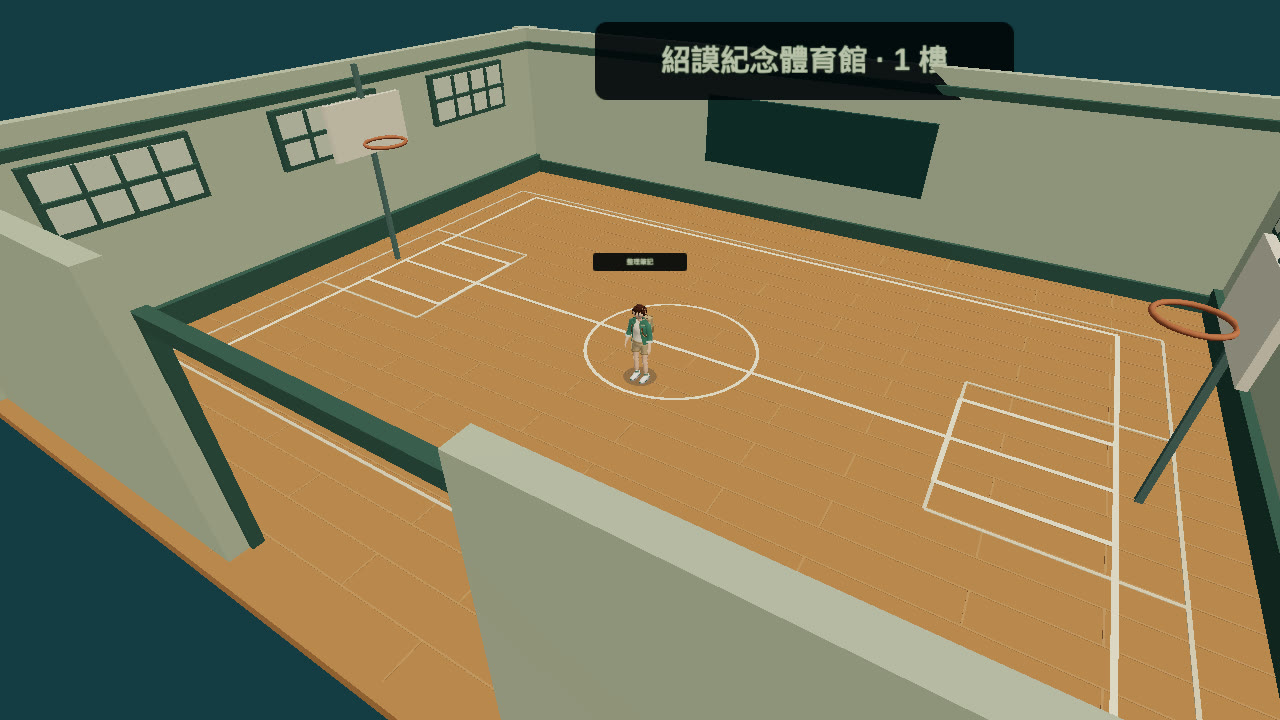
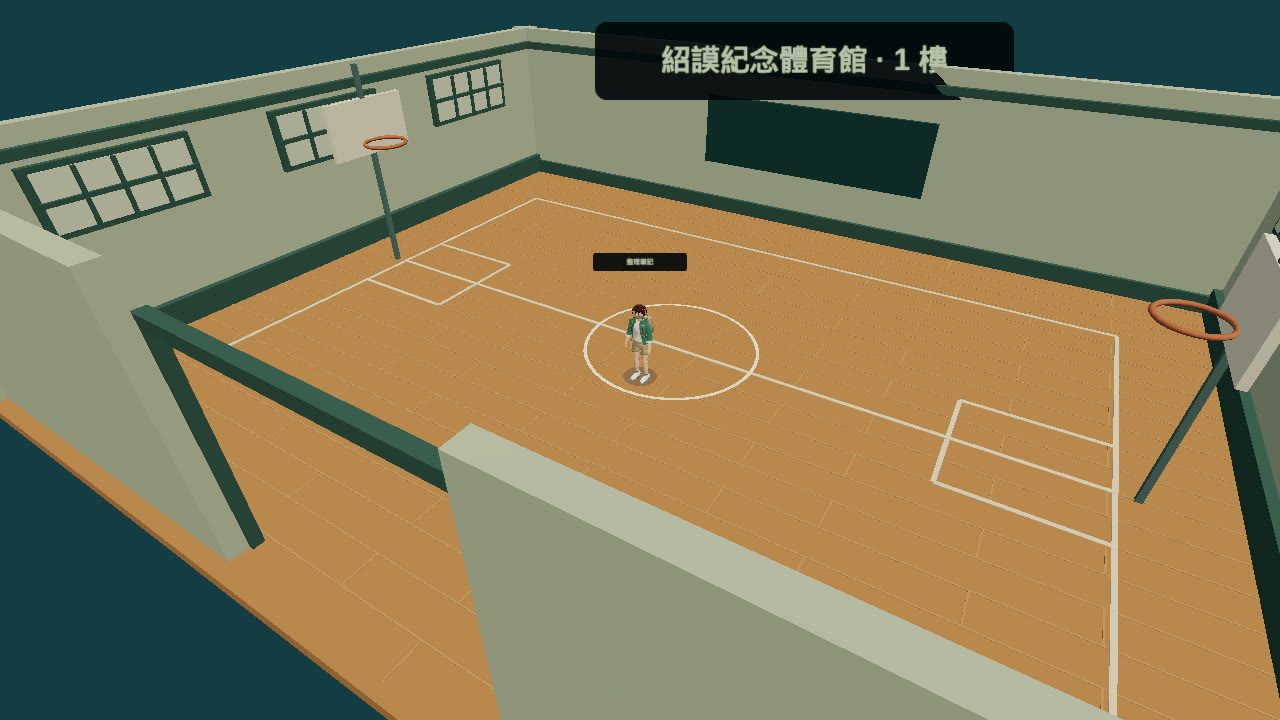
Keep a single set of lines on the activity-room floor.
The older court at the walls was still painted under the new one. Floor paint now comes from one mark list, with the baselines between each rim and its pole.

diff --git a/src/game/rpg/interior-layout.ts b/src/game/rpg/interior-layout.ts
@@ -21,22 +21,31 @@ export const ACTIVITY_COURT = {
 
 export function activityCourtSegments() {
   const { halfX, halfZ, line, laneDepth, laneHalfZ } = ACTIVITY_COURT;
-  const y = 0.04;
+  const y = 0.014;
   const lane = (sign: 1 | -1) => {
     const baseline = sign * halfX;
     const inward = sign * (halfX - laneDepth);
     const mid = sign * (halfX - laneDepth / 2);
     return [
-      { position: [mid, y, laneHalfZ] as const, size: [laneDepth, 0.01, line] as const },
-      { position: [mid, y, -laneHalfZ] as const, size: [laneDepth, 0.01, line] as const },
-      { position: [inward, y, 0] as const, size: [line, 0.01, laneHalfZ * 2] as const },
-      { position: [baseline, y, 0] as const, size: [line, 0.01, halfZ * 2] as const },
+      { position: [mid, y, laneHalfZ] as const, size: [laneDepth, 0.012, line] as const },
+      { position: [mid, y, -laneHalfZ] as const, size: [laneDepth, 0.012, line] as const },
+      { position: [inward, y, 0] as const, size: [line, 0.012, laneHalfZ * 2] as const },
+      { position: [baseline, y, 0] as const, size: [line, 0.012, halfZ * 2] as const },
     ];
   };
   return [
-    { position: [0, y, halfZ] as const, size: [halfX * 2, 0.01, line] as const },
-    { position: [0, y, -halfZ] as const, size: [halfX * 2, 0.01, line] as const },
+    { position: [0, y, halfZ] as const, size: [halfX * 2, 0.012, line] as const },
+    { position: [0, y, -halfZ] as const, size: [halfX * 2, 0.012, line] as const },
     ...lane(1),
     ...lane(-1),
+  ];
+}
+
+/** The one set of floor paint for the gym. Replaces the older ±8.5 / ±5.5 court. */
+export function gymFloorMarks() {
+  const { halfX, line } = ACTIVITY_COURT;
+  return [
+    ...activityCourtSegments(),
+    { position: [0, 0.02, 0] as const, size: [halfX * 2, 0.012, line] as const },
   ];
 }

diff --git a/src/game/rpg/AdventureWorld.tsx b/src/game/rpg/AdventureWorld.tsx
@@ -33,7 +33,7 @@ import { gearBonus, instanceFor } from "../../features/items-equipment-building/
 import { quality } from "../quality";
 import { signHost } from "./chrome";
 import { detailedRoom, InteriorDetails, roomFinish } from "./InteriorDetails";
-import { ACTIVITY_COURT, ROOM_TABLE_SIZE, ROOM_TABLES, activityCourtSegments } from "./interior-layout";
+import { ROOM_TABLE_SIZE, ROOM_TABLES } from "./interior-layout";
 import { Monster } from "./art/Monster";
 import { SkillEffects } from "./art/SkillEffects";
 import { StructuralPulse } from "../art/vfx/StructuralPulse";
@@ -516,17 +516,12 @@ export function Interior() {
             <ringGeometry args={[1.7, 1.77, 40]} />
             <meshBasicMaterial color="#e9dbb1" />
           </mesh>
-          <mesh position={[0, 0.03, 0]}>
-            <boxGeometry args={[site.id === "gym" ? ACTIVITY_COURT.halfX * 2 : 17, 0.02, 0.06]} />
-            <meshBasicMaterial color="#e9dbb1" />
-          </mesh>
-          {site.id === "gym" &&
-            activityCourtSegments().map((mark, index) => (
-              <mesh key={index} position={mark.position}>
-                <boxGeometry args={mark.size} />
-                <meshBasicMaterial color="#e9dbb1" />
-              </mesh>
-            ))}
+          {site.id !== "gym" && (
+            <mesh position={[0, 0.03, 0]}>
+              <boxGeometry args={[17, 0.02, 0.06]} />
+              <meshBasicMaterial color="#e9dbb1" />
+            </mesh>
+          )}
           {[-1, 1].map((side) => (
             <group key={side} position={[side * 8, 0, 0]}>
               <mesh position={[0, 2.3, 0]}>

diff --git a/src/game/rpg/InteriorDetails.tsx b/src/game/rpg/InteriorDetails.tsx
@@ -1,6 +1,6 @@
 import { useLayoutEffect, useMemo, useRef } from "react";
 import { Color, Matrix4, type InstancedMesh } from "three";
-import { ROOM_TABLE_SIZE, ROOM_TABLES } from "./interior-layout";
+import { ROOM_TABLE_SIZE, ROOM_TABLES, gymFloorMarks } from "./interior-layout";
 
 type Point = [number, number, number];
 type Box = { at: Point; size: Point; color: string };
@@ -90,15 +90,14 @@ function wallAndFloor(room: DetailedRoom, floor: number) {
   }
   if (gym) {
     const line = "#e7d9b9";
-    for (const side of [-1, 1]) {
+    for (const mark of gymFloorMarks()) {
       detail.push(
-        box([0, 0.014, side * 5.5], [17, 0.012, 0.055], line),
-        box([side * 8.5, 0.014, 0], [0.055, 0.012, 11], line),
-        box([side * 5.3, 0.014, 0], [0.055, 0.012, 3.7], line),
+        box(
+          [mark.position[0], mark.position[1], mark.position[2]],
+          [mark.size[0], mark.size[1], mark.size[2]],
+          line,
+        ),
       );
-      for (const lane of [-1, 1]) {
-        detail.push(box([side * 6.9, 0.014, lane * 1.85], [3.2, 0.012, 0.055], line));
-      }
     }
   } else {
     const panel = museum ? "#233e4b" : trim;

diff --git a/docs/art/HANDOFF.md b/docs/art/HANDOFF.md
@@ -5,7 +5,7 @@
 
 ## 本輪（活動室球場）
 
-- 邊線在籃架內側。底線落在籃框和籃架之間。禁區從底線往中場收。中圈留著。
+- 地板只留這一組標線。邊線在籃架內側。底線落在籃框和籃架之間。禁區從底線往中場收。中圈留著。
 - 沒有新增音效。標線尺寸仍是 estimated。
 
 ## 本輪（車阻）
